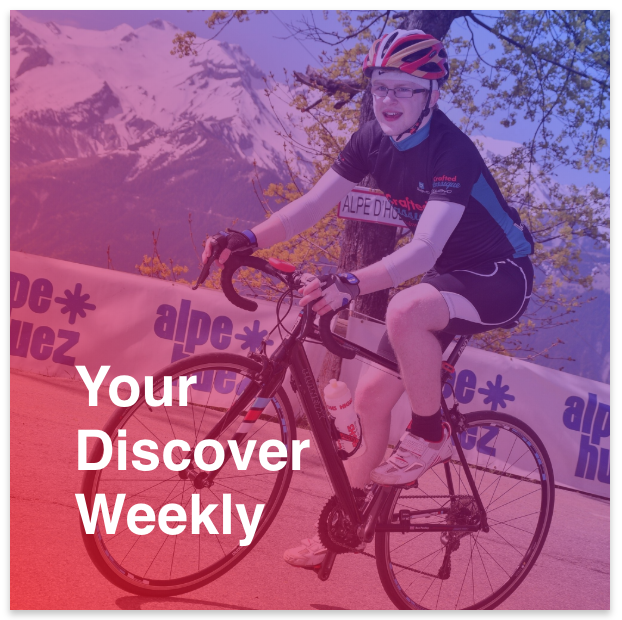
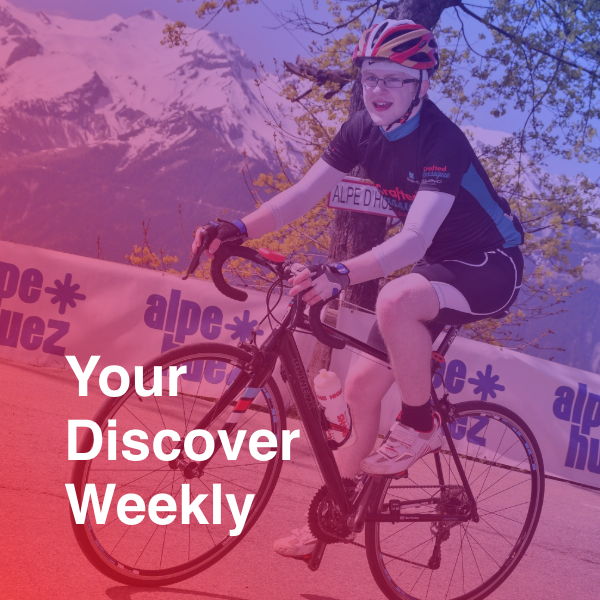
Update readme with image again

diff --git a/README.md b/README.md
@@ -2,4 +2,6 @@
 
 Spotify web player components using React & Styled Components
 
-![Cover Component](/cover.png "Cover component")
+### Cover
+
+<img src="./cover.png" width="250" height="250" />
